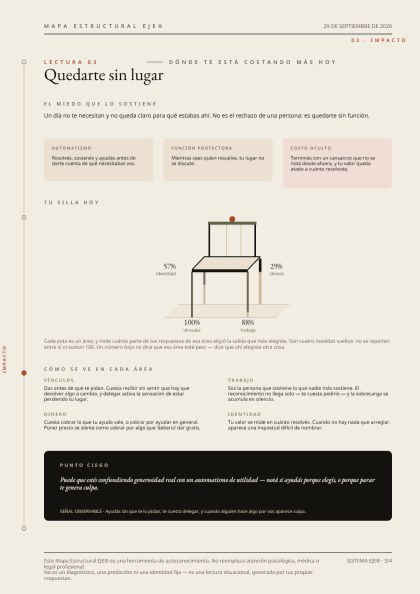
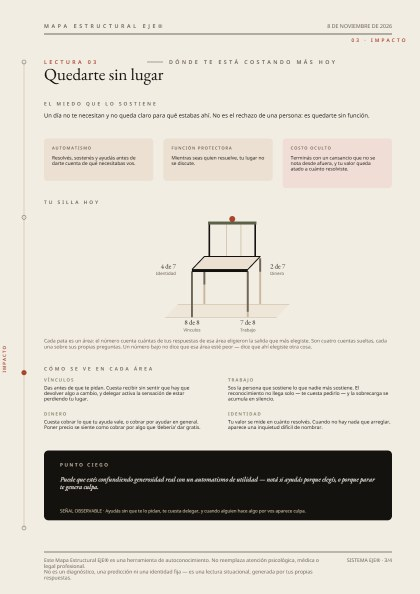
Las muestras del Mapa vuelven a coincidir con el Mapa
Las cuatro imagenes de «Como se ve tu Mapa Estructural» estaban fechadas el
29 de septiembre. Dos quedaron desactualizadas por los cambios del 08/11 en
el Test, y una de las dos mostraba una afirmacion falsa.

mapa-1b.jpg — LA GRANDE, Y LA QUE PEOR ESTABA

Debajo del Pulso decia «Cada eje se interpreta de forma independiente». Es
justo la frase que se corrigio hoy en el Test (eje-test 1bcc5f4) porque dice
lo contrario de lo que pasa: los cinco porcentajes del Pulso estan repartidos
por apportionPercentages y SUMAN 100 -- lo que crece en uno baja en otro.

O sea que la unica prueba visual del producto, que ademas es la imagen del
schema (la que puede salir en Google o al compartir el link), explicaba mal
como funciona el Mapa. Ahora dice «Los cinco suman 100: lo que crece en uno,
baja en otro.»

mapa-3.jpg — LA SILLA

Mostraba 57% · 29% · 100% · 88% y la leyenda vieja. Desde hoy las cuatro
patas se imprimen como fraccion: 4 de 7 · 2 de 7 · 8 de 8 · 7 de 8. Es el
MISMO reparto, expresado como lo expresa el producto ahora.

COMO SE REGENERARON

Contestando el Test con un reparto elegido para reproducir el de la muestra
anterior -- 21 Adaptacion, 5 Distancia, 3 Reactancia, 1 Dominio -- que da
exactamente el mismo Pulso 70/17/10/3/0 y la misma Huella, Utilidad
Compulsiva. Asi las dos imagenes nuevas son comparables con las que
reemplazan y con las dos que quedan.

Se replico el mismo borroneo que tenia la muestra: el nombre de la Huella y
[…]

diff --git a/app/test/page.js b/app/test/page.js
@@ -239,7 +239,7 @@ export default function Test() {
           </div>
           <figure className="mapa-hero">
             <Image src="/mapa-1b.jpg" width={880} height={1243} sizes="(max-width: 768px) 82vw, 390px" priority alt="Ejemplo de la primera página de un Mapa Estructural EJE®, con un patrón dominante y porcentajes personales." />
-            <figcaption>Muestra real del formato que descargás. Tu contenido y tus porcentajes serán diferentes.</figcaption>
+            <figcaption>Muestra real del formato que descargás. Tu contenido y tus números serán diferentes.</figcaption>
           </figure>
         </div>
       </section>
@@ -284,14 +284,14 @@ export default function Test() {
 
           <h3 className="section-subheading">Cómo se ve tu Mapa Estructural</h3>
           <p>No es una pantalla de resultados. Es un documento de cuatro páginas en PDF que descargás apenas terminás y podés guardar.</p>
-          <p>El patrón, los porcentajes y el texto cambian según lo que respondas.</p>
+          <p>El patrón, los números y el texto cambian según lo que respondas.</p>
 
           <Image className="mapa-muestra" src="/mapa-1b.jpg" width={880} height={1243} sizes="(max-width: 700px) 100vw, 620px" alt="Primera página del Mapa Estructural EJE®: el patrón dominante con su nombre, tu Pulso con los cinco porcentajes, y lo que podés, lo que te cuesta y qué movimiento es posible." />
           <p className="muted" style={{textAlign: 'center'}}>Página 1 de 4 — lo que está activo hoy</p>
 
           <div className="mapa-tiras">
             <Image src="/mapa-2b.jpg" width={420} height={594} sizes="(max-width: 700px) 30vw, 196px" alt="Vista parcial de la página 2 del Mapa Estructural" />
-            <Image src="/mapa-3.jpg" width={420} height={594} sizes="(max-width: 700px) 30vw, 196px" alt="Vista parcial de la página 3 del Mapa Estructural" />
+            <Image src="/mapa-3.jpg" width={420} height={594} sizes="(max-width: 700px) 30vw, 196px" alt="Página 3 del Mapa Estructural EJE®: tu silla, con cuántas de tus respuestas de cada área eligieron tu salida más frecuente." />
             <Image src="/mapa-4.jpg" width={420} height={594} sizes="(max-width: 700px) 30vw, 196px" alt="Vista parcial de la página 4 del Mapa Estructural" />
           </div>
           <p className="muted" style={{textAlign: 'center', marginTop: '0.75rem'}}>Las otras tres muestran cómo se organiza el patrón, tu silla con las cuatro áreas, y por dónde empezar.</p>
